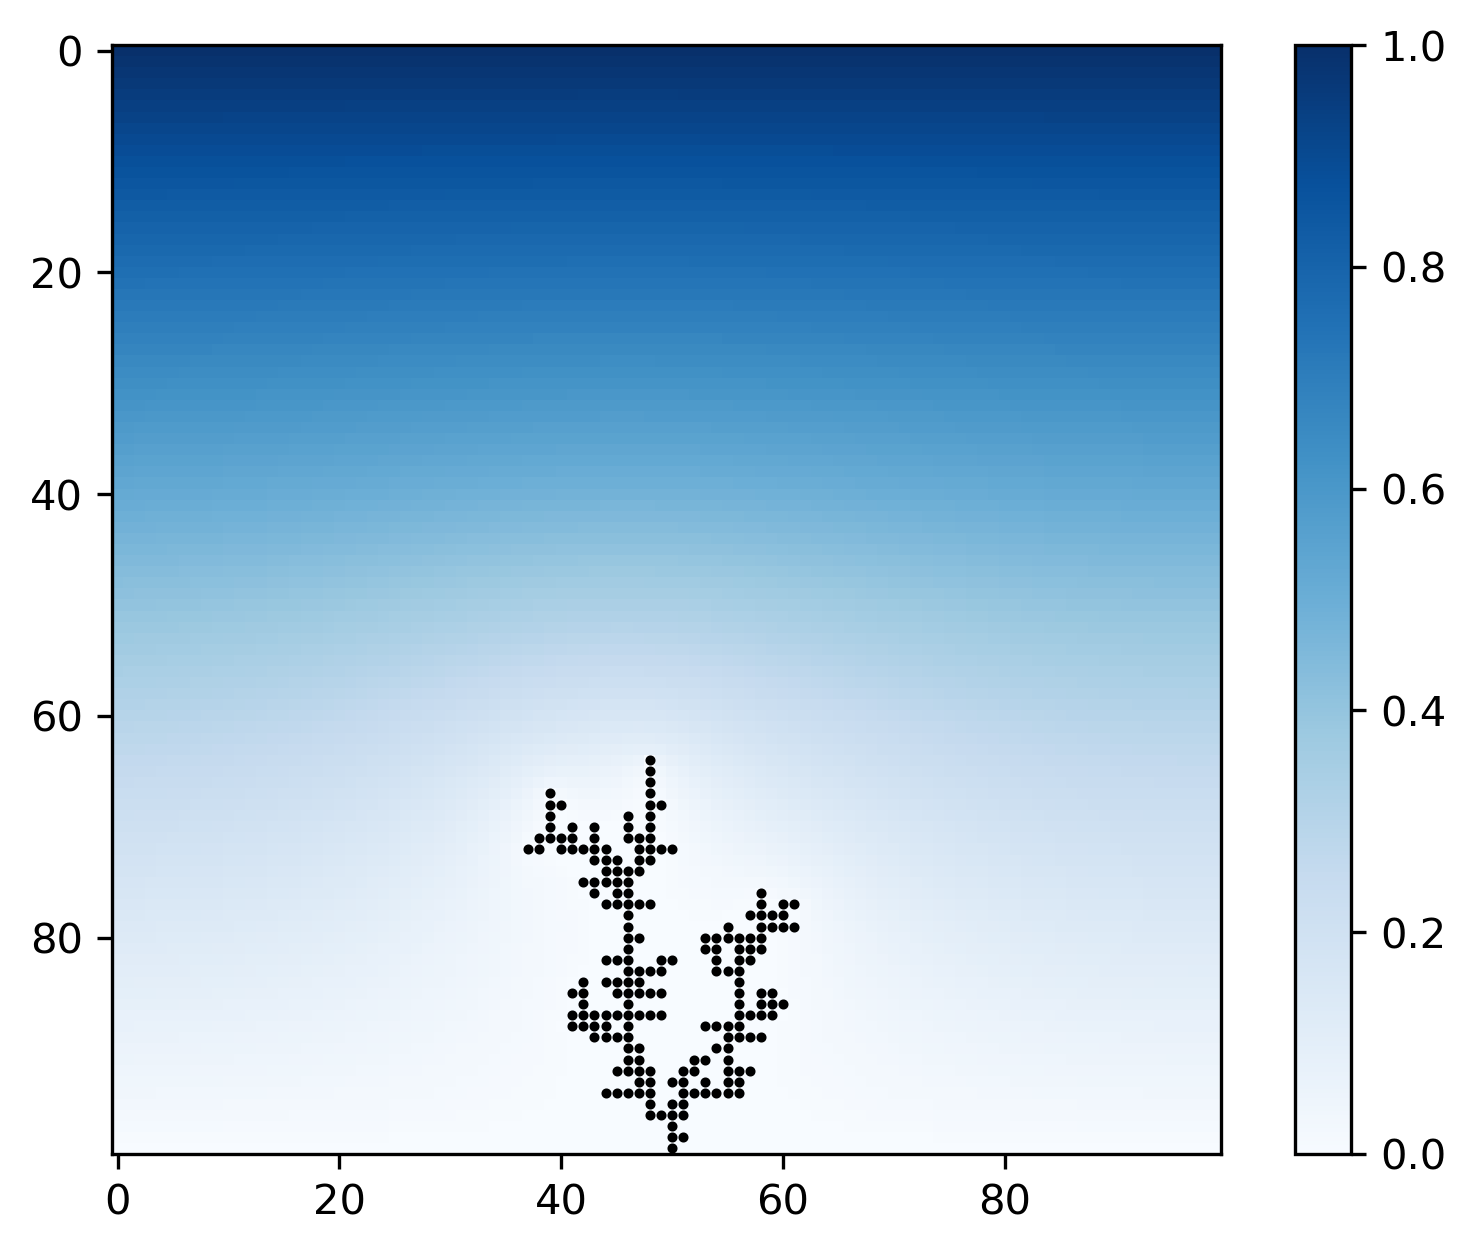
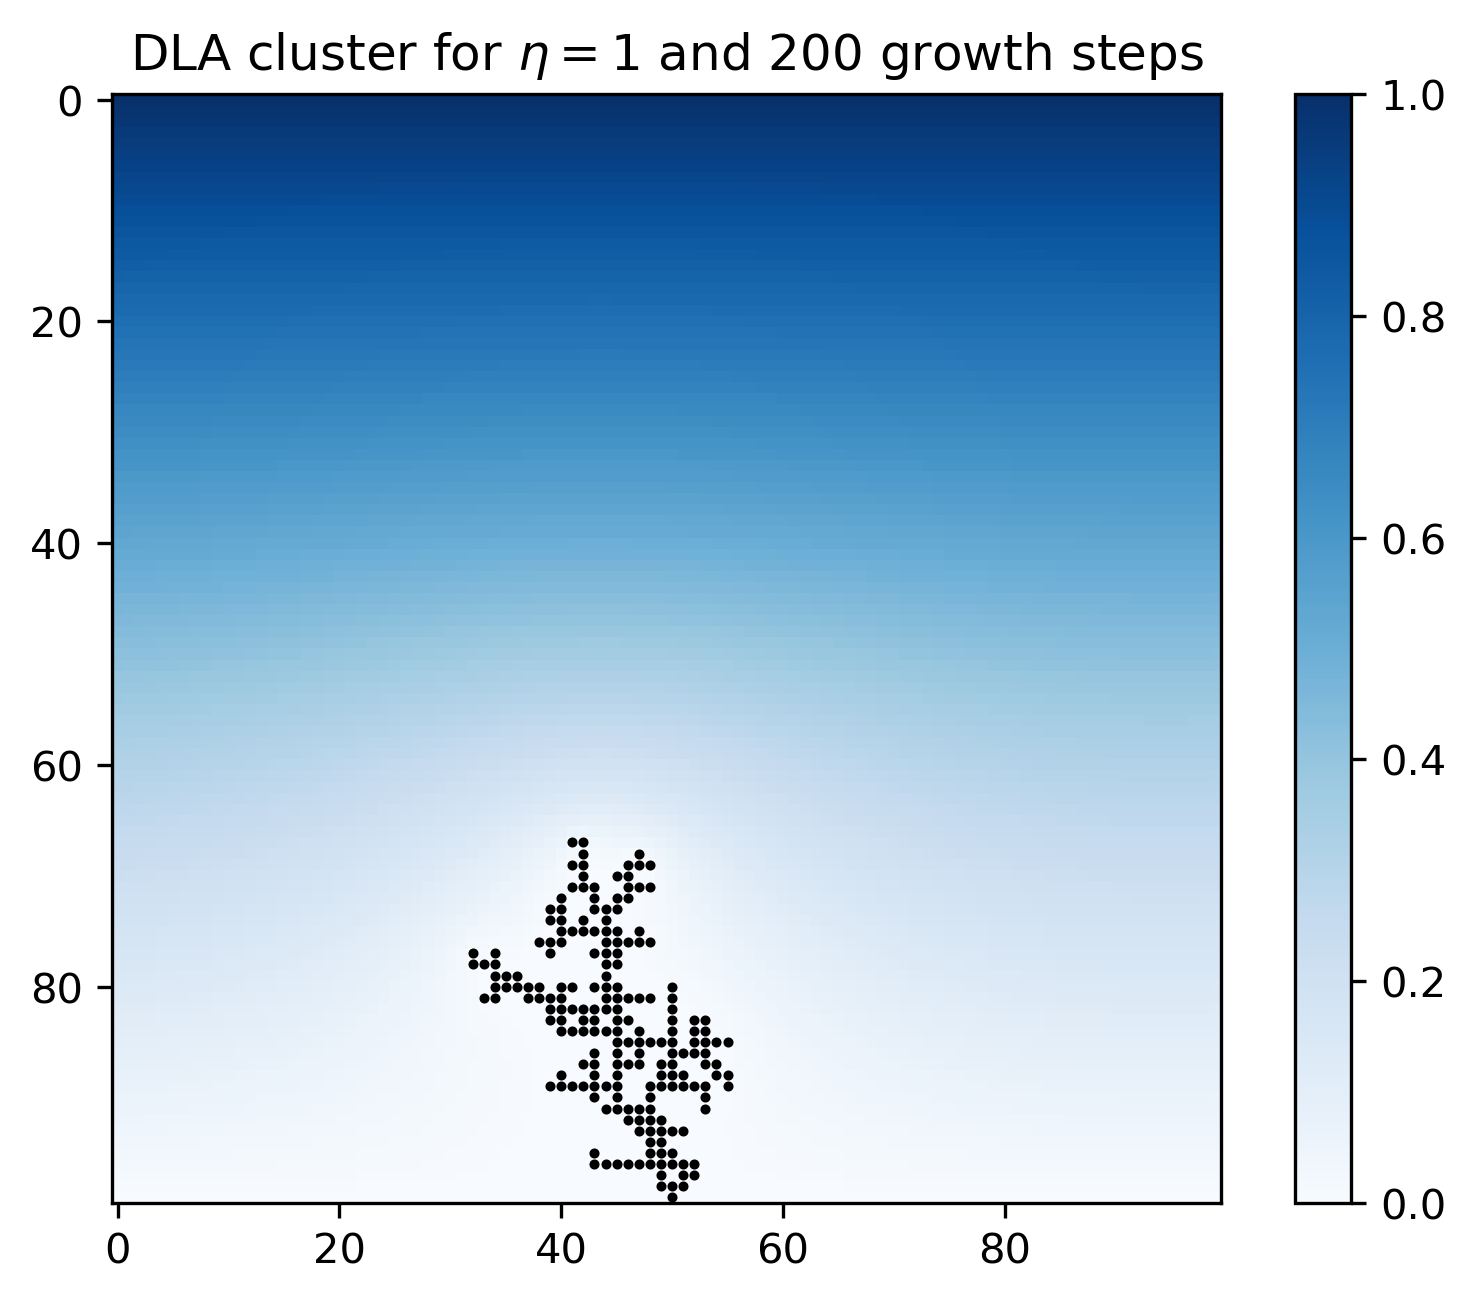
Boxplots

diff --git a/modules/DLA_model.py b/modules/DLA_model.py
@@ -123,7 +123,7 @@ class Diffusion:
             [coords[0] for coords in self.cluster]
         )
 
-    def plot(self, save: bool = False, filename: str = "dla.png"):
+    def plot(self, eta: float = 1, save: bool = False, filename: str = "dla.png"):
         fig, ax = plt.subplots()
         im = ax.imshow(self.grid, cmap="Blues")
         plt.colorbar(im)
@@ -131,6 +131,9 @@ class Diffusion:
         x_points = [coords[1] for coords in self.cluster]
         y_points = [coords[0] for coords in self.cluster]
         ax.scatter(x_points, y_points, color="black", s=2)
+        ax.set_title(
+            rf"DLA cluster for $\eta = {eta}$ and {len(self.cluster) - 1} growth steps"
+        )
 
         if save:
             plt.savefig(filename, dpi=300, bbox_inches="tight")
